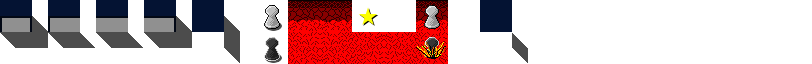
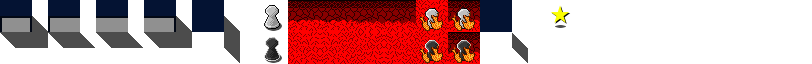
push

Changed region(s): [[0.431, 0.0, 0.6158, 1.0], [0.6773, 0.125, 0.7081, 0.4375]]

diff --git a/editor.html b/editor.html
@@ -83,6 +83,12 @@ function Editor( parent, tools ) {
 	};
 	
 	editor.refresh( true );
+	var modals = this.toolbar.querySelectorAll(".options");
+	Array.prototype.forEach.call(modals, function(modal) {
+		var rect = this.canvas.getBoundingClientRect();
+		modal.style.left = rect.right + "px";
+		modal.style.top = rect.top + "px";
+	}, this);
 }
 
 Editor.prototype.moveHistory = function( num ) {
@@ -126,6 +132,7 @@ Editor.prototype.refresh = function( history ) {
 		if( this.history.length > 50 )
 			this.history.pop();
 	}
+	
 	
 	this.drawMap();
 	if(this.drawSelection() == false)
@@ -297,18 +304,14 @@ tools.brush = function( editor, radio ) {
 	
 	var modal = createModal("Pinceles");
 	var rect = editor.canvas.getBoundingClientRect();
-	modal.style.top = rect.top + "px";
-	modal.style.left = rect.right + "px";
 
 
 	var dragEdit = new Editor( modal, {} );
 	removeEvents( document.body );
 	dragEdit.map = new Map([
-		"           ",
-		" # |°¬ & < ",
-		"           ",
-		" ^`⋆   %-  ",
-		"           "
+		"# &&<¬ ",
+		"  |°¬ -",
+		"^`⋆   %",
 	]); // TILES
 	dragEdit.refresh();
 	dragEdit.canvas.addEventListener("click", function(event) {
@@ -338,8 +341,6 @@ tools.selection = function( editor, radio ) {
 
 	var modal = createModal("Funciones");
 	var rect = editor.canvas.getBoundingClientRect();
-	modal.style.top = rect.top + "px";
-	modal.style.left = rect.right + "px";
 
 	modal.id = "selectionOpt";
 	div.appendChild(modal);
@@ -595,8 +596,6 @@ tools.changeSize = function( editor, radio ) {
 	div.appendChild( span );
 	var opt = createModal("Tamaño");
 	var rect = editor.canvas.getBoundingClientRect();
-	opt.style.top = rect.top + "px";
-	opt.style.left = rect.right + "px";
 	var TVControllers = elt("div", {class: "TVControllers"});
 	var directions = ["up", "down", "left", "right"];
 	directions.forEach(function(direction) {
@@ -648,8 +647,6 @@ tools.maps = function( editor, radio ) {
 	
 	var modal = createModal("Mapas");
 	var rect = editor.canvas.getBoundingClientRect();
-	modal.style.top = rect.top + "px";
-	modal.style.left = rect.right + "px";
 
 	div.appendChild( modal );
 	var buttonCont = elt("div", {id: "maptools"});

diff --git a/script.js b/script.js
@@ -142,7 +142,15 @@ function Level( sketch ) {
 }
 
 function getDeadChar(player, lavaType) {
-	return "%";
+	if( player == "^") {
+		if( lavaType == "%" ) {
+			return "[";
+		} else return "]";
+	} else {
+		if( lavaType == "%" ) {
+			return "{";
+		} else return "}";
+	}
 }
 
 Level.prototype.pause = function() {
@@ -332,15 +340,37 @@ function drawCanvasTile( cx, char, x, y ) {
 			break;
 		case "-":
 			cx.drawImage( tileset,
-			             scale*(9 + lava_loop%2 ), 0, scale, scale,
+			             scale*(9 + lava_loop), 0, scale, scale,
 			             x * scale, y * scale, scale, scale );
 			break;
 		
 		case "⋆":
 			cx.drawImage( tileset,
-			             scale * 11, 0, scale, scale,
+			             scale * 17, 0, scale, scale,
 			             x * scale, y * scale, scale, scale);
 			break;
+
+		case "[":
+			cx.drawImage( tileset,
+			             scale * 13, 0, scale, scale,
+			             x * scale, y * scale, scale, scale);
+			break;
+		case "]":
+			cx.drawImage( tileset,
+			             scale * 14, 0, scale, scale,
+			             x * scale, y * scale, scale, scale);
+			break;
+		case "{":
+			cx.drawImage( tileset,
+			             scale * 13, scale, scale, scale,
+			             x * scale, y * scale, scale, scale);
+			break;
+		case "}":
+			cx.drawImage( tileset,
+			             scale * 14, scale, scale, scale,
+			             x * scale, y * scale, scale, scale);
+			break;
+
 		default:
 			cx.fillStyle = "black";
 			cx.fillText(char, x*scale + radius + 1, y*scale+radius+1);
